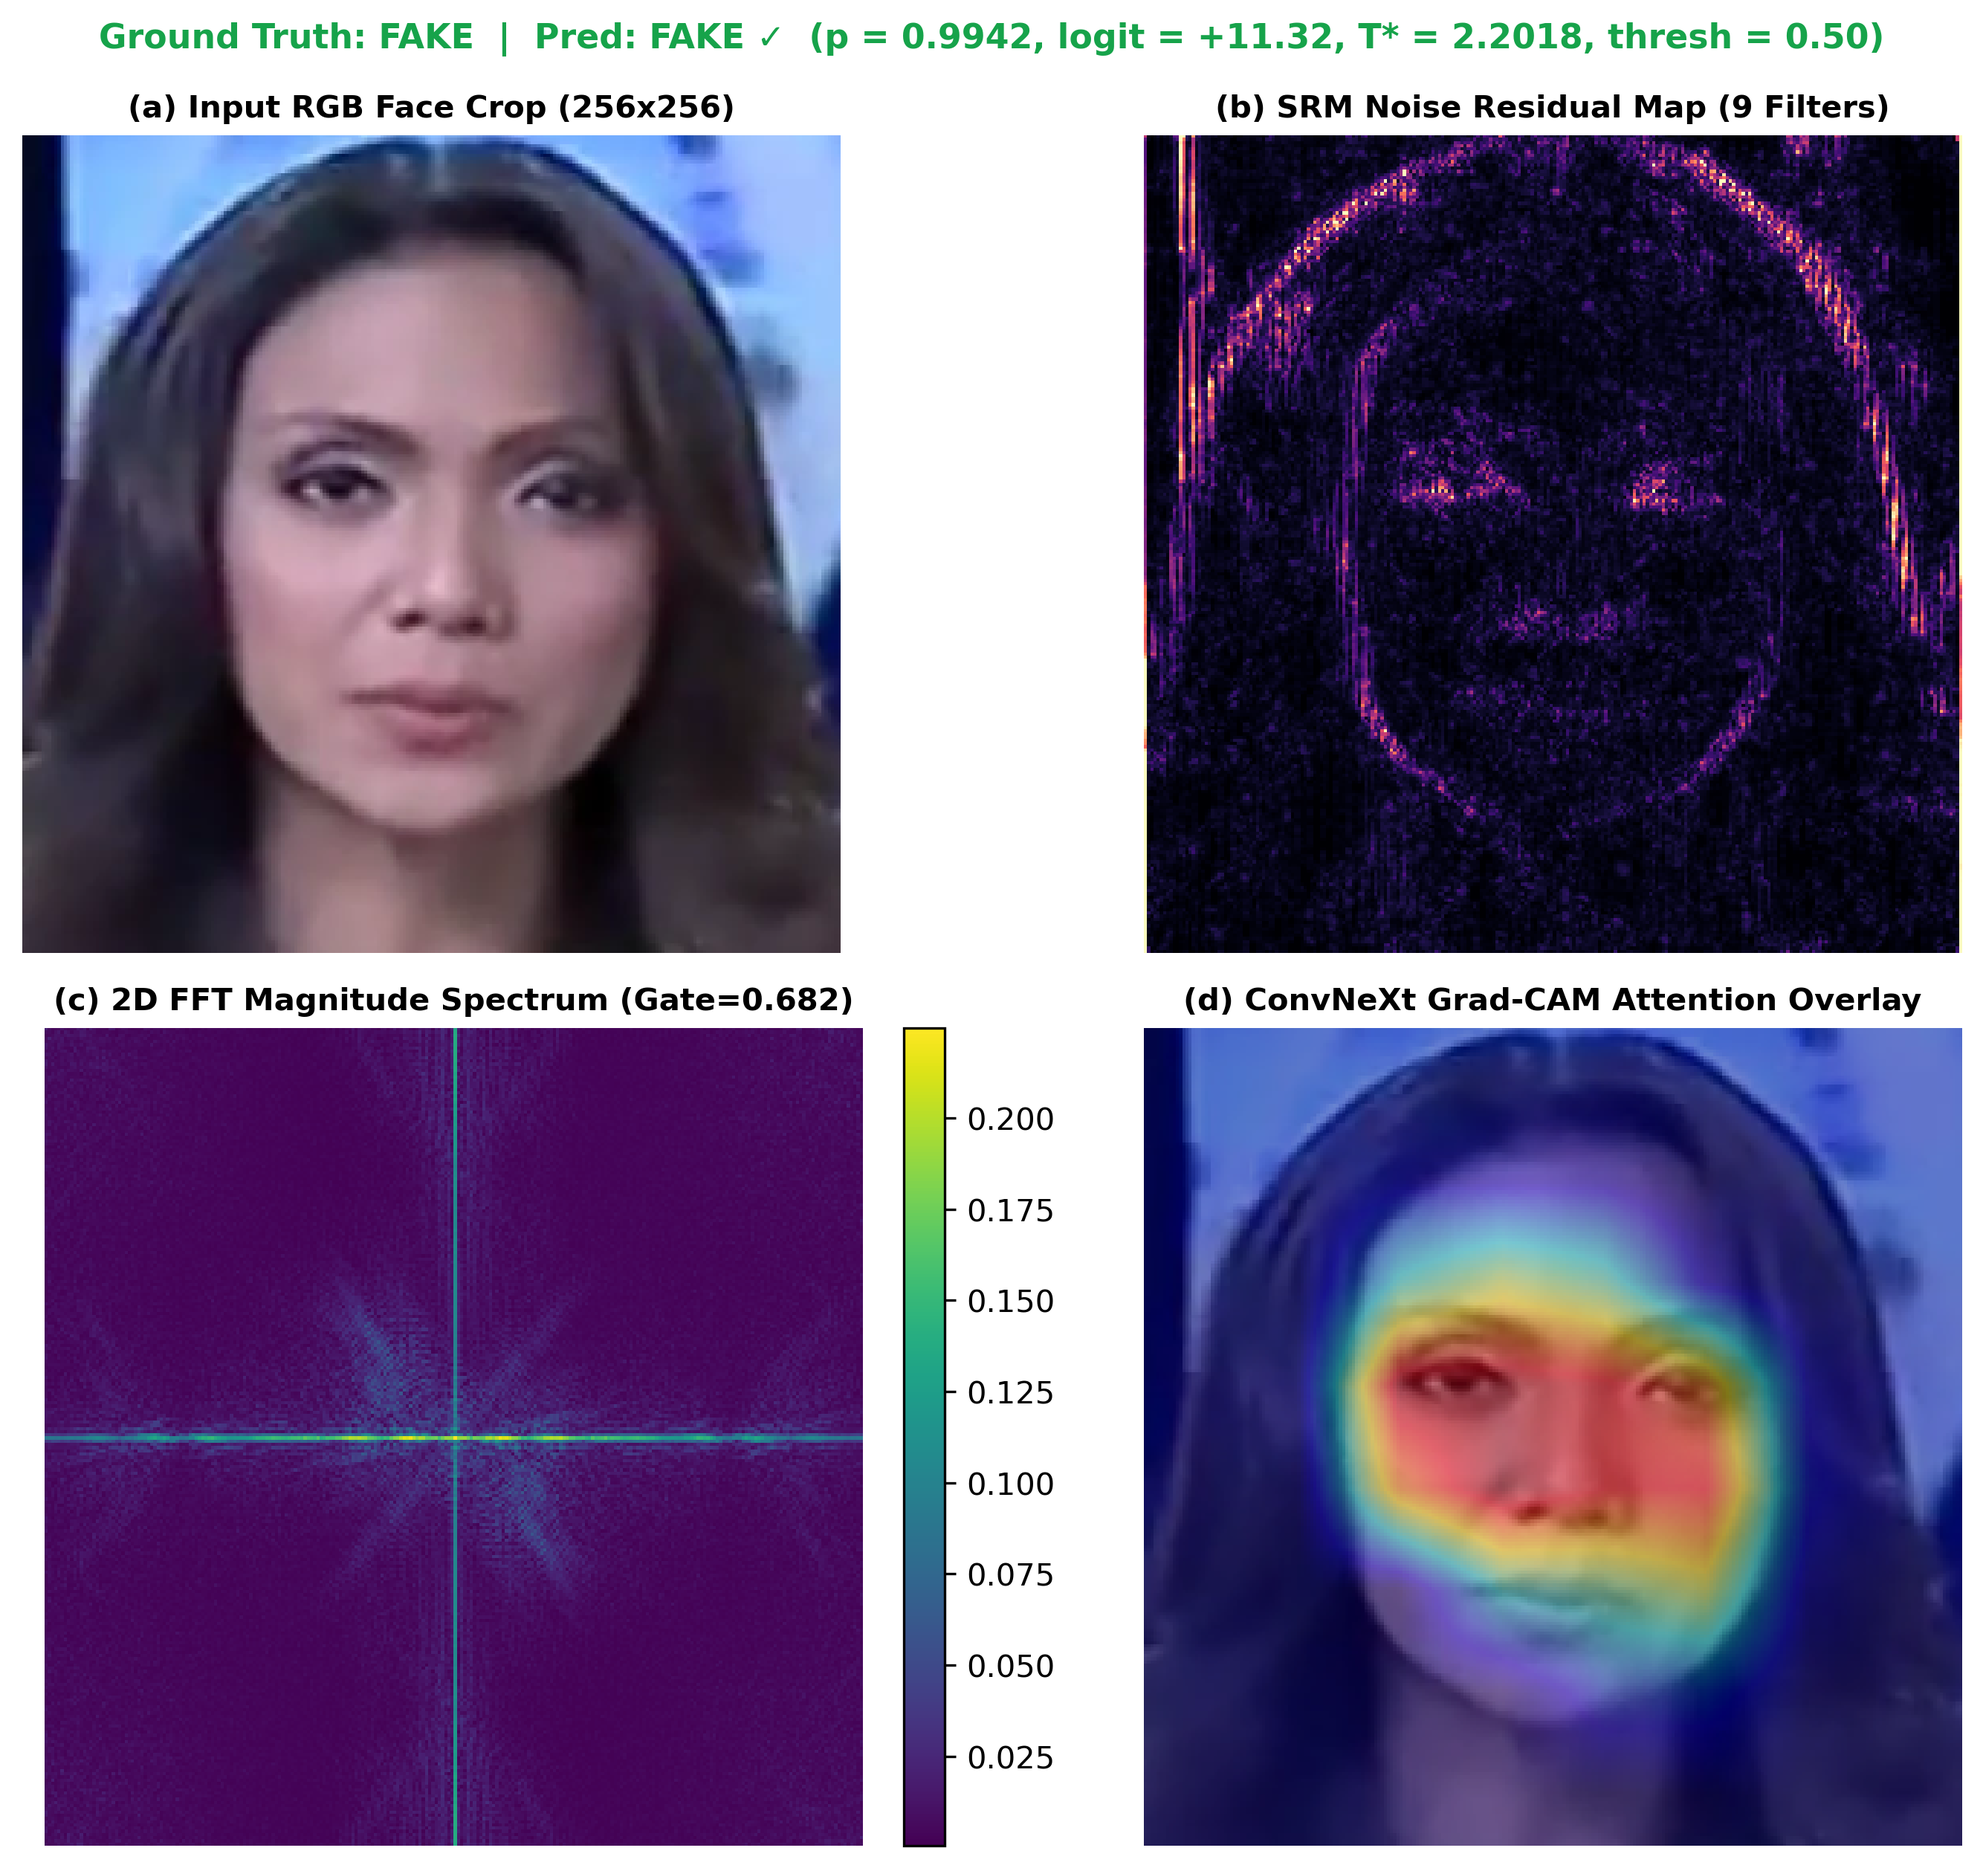
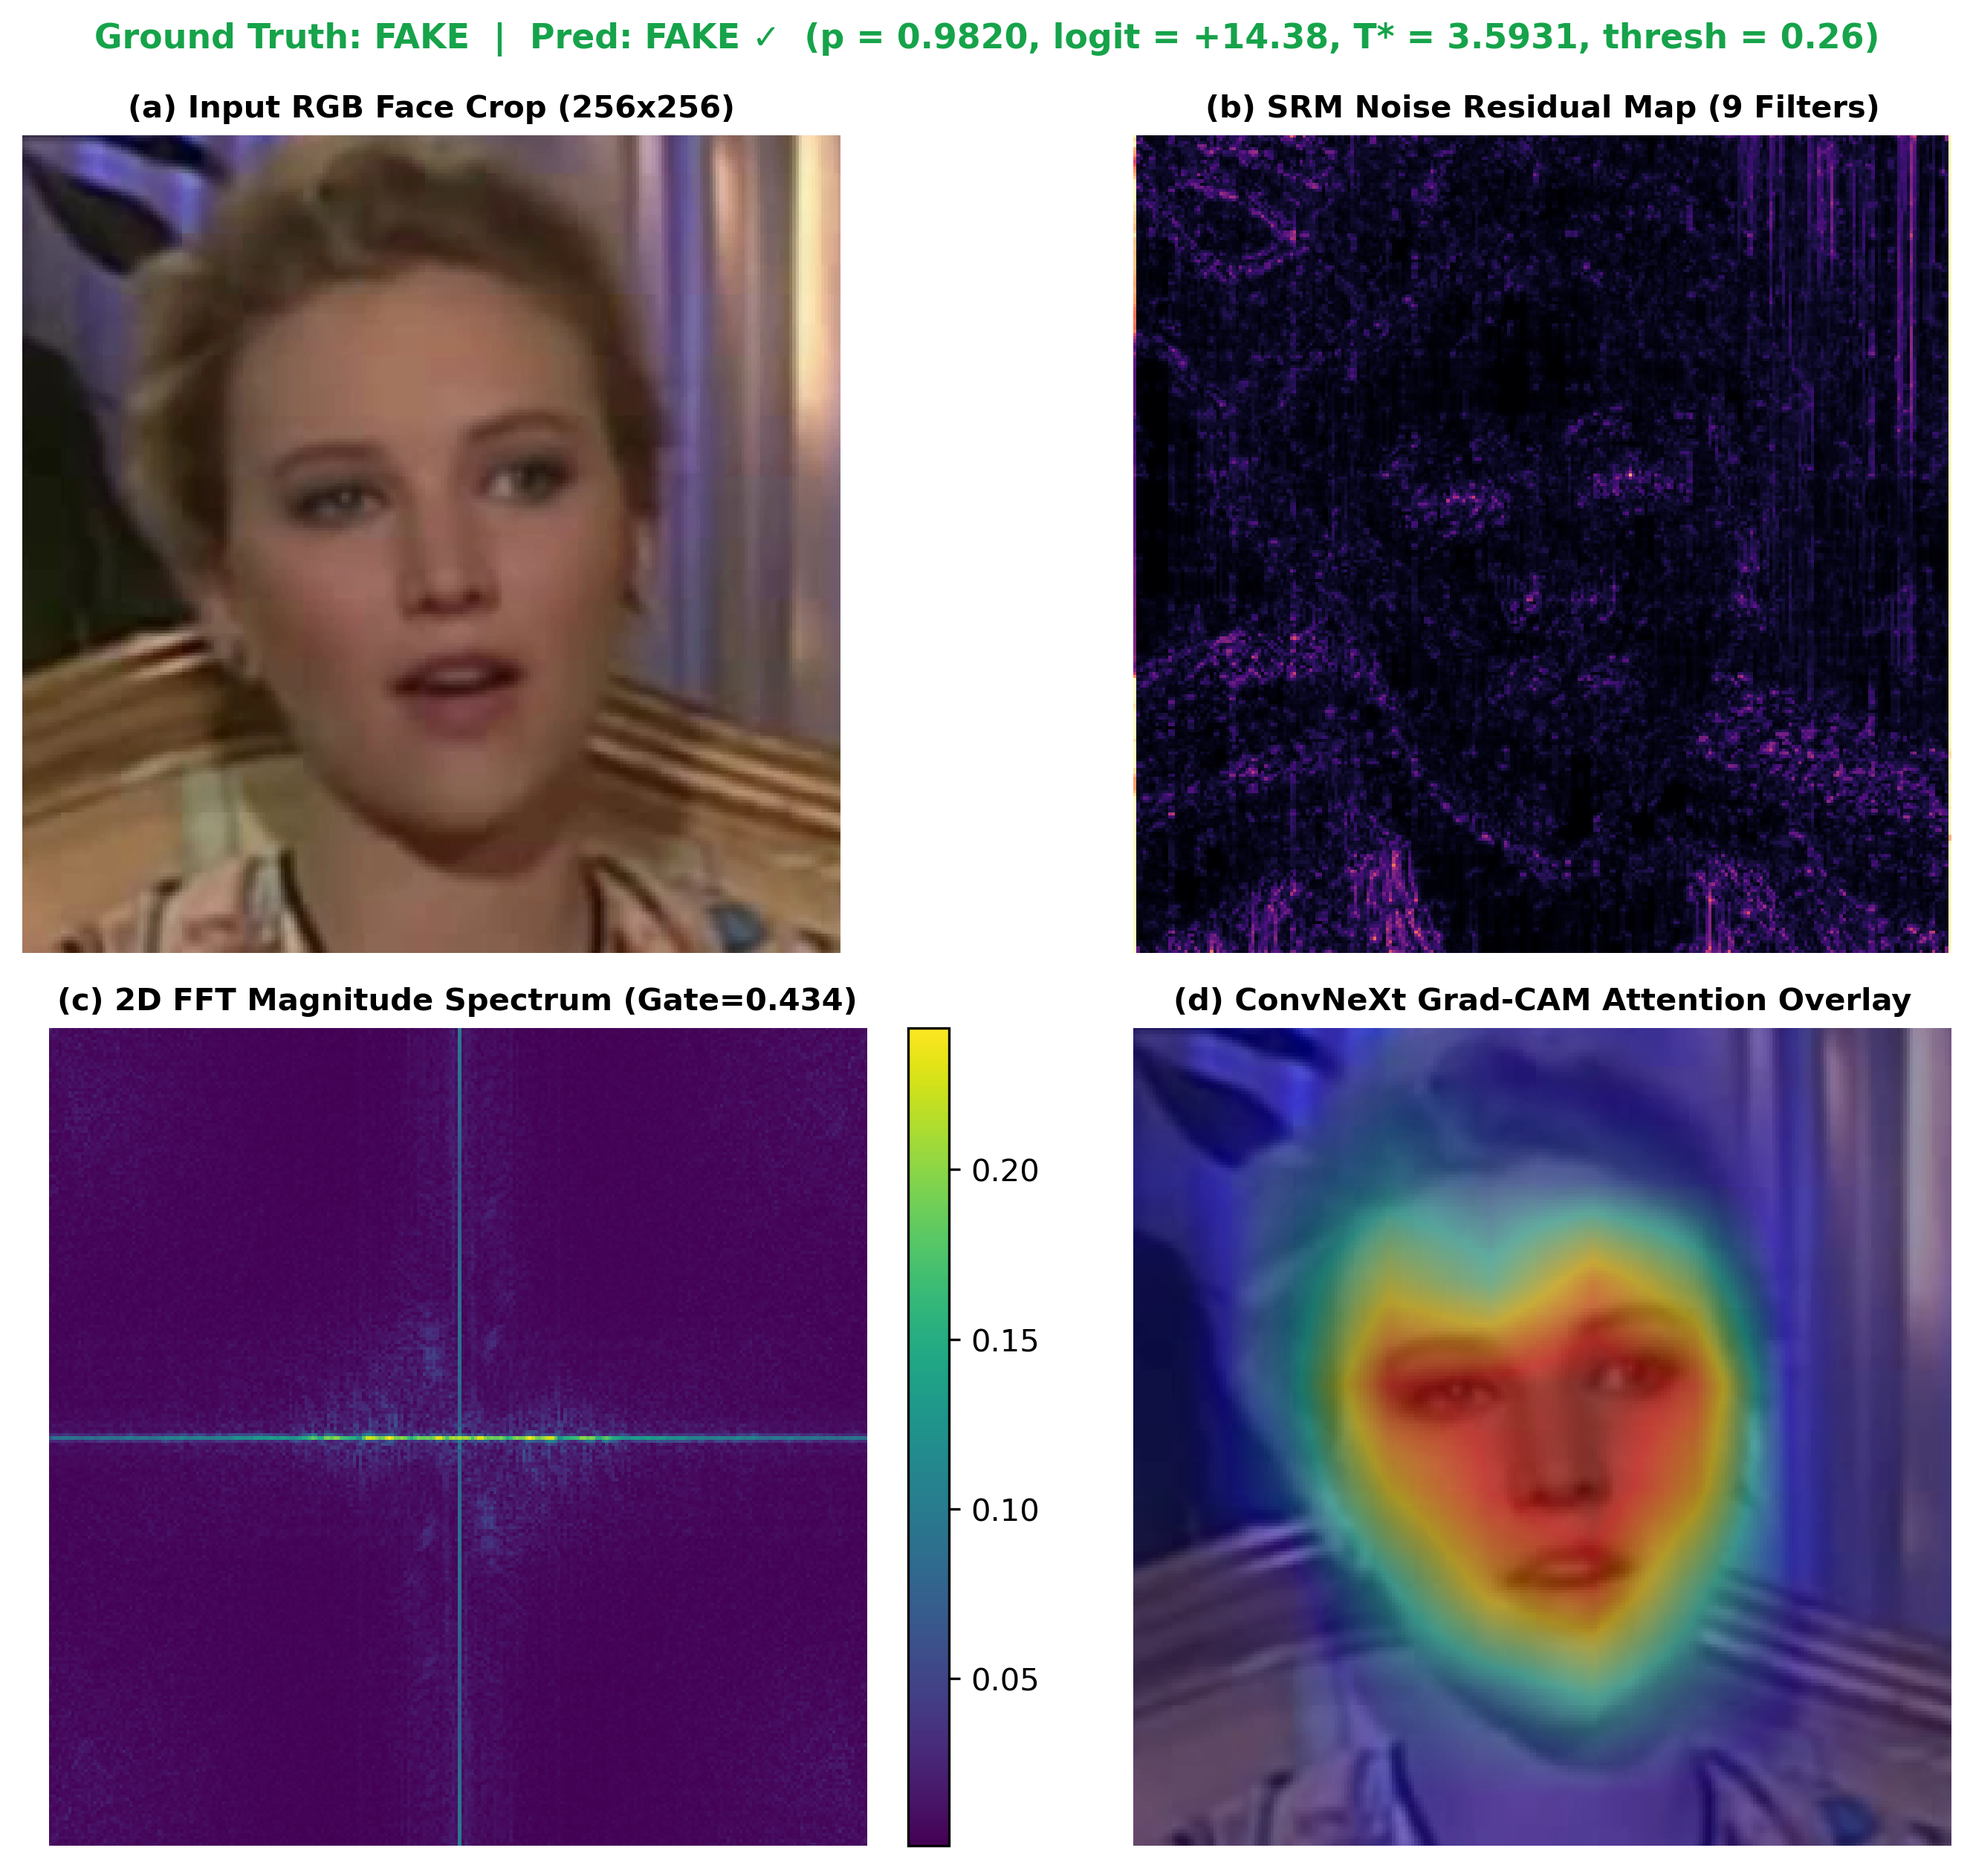
docs(diagnostics): update 4-panel interpretability candidate and harmonize calibrated metrics

diff --git a/scripts/visualize_attention_maps.py b/scripts/visualize_attention_maps.py
@@ -48,12 +48,43 @@ def generate_4panel_figure(
     img_tensor = img_tensor.to(device)
 
     with torch.no_grad():
+        mean = model.imagenet_mean.to(dtype=img_tensor.dtype, device=device)
+        std = model.imagenet_std.to(dtype=img_tensor.dtype, device=device)
+        x_spatial = (img_tensor - mean) / std
+
+        feat_maps = model.spatial_backbone(x_spatial)
+        feat_maps = model.spatial_norm(feat_maps)
+        f_s = model.spatial_pool(feat_maps).flatten(1)
+        f_s = model.spatial_fc(f_s)
+
+        srm_out = model.srm(img_tensor)
+        bayar_out = model.bayar(img_tensor)
+        noise_combined = torch.cat([srm_out, bayar_out], dim=1)
+        freq_maps = model.fft(noise_combined)
+        if hasattr(model, "freq_tower"):
+            f_f, _ = model.freq_tower(freq_maps)
+        else:
+            f_f = model.freq_conv(freq_maps).flatten(1)
+            f_f = model.freq_fc(f_f)
+
+        concat_feat = torch.cat([f_s, f_f], dim=1)
+        gate = model.gate_fc(concat_feat)
+        gate_raw = float(gate.mean().item())
+
         logits = model(img_tensor).squeeze(-1).float()
         raw_logit = float(logits.item())
         calibrated_prob = float(torch.sigmoid(logits / temperature).item())
         pred_label = "FAKE" if calibrated_prob > threshold else "REAL"
 
     diag = generate_face_diagnostics(model, rgb_uint8, device=device)
+
+    srm_map = srm_out[0].abs().mean(dim=0).cpu().numpy()
+    p_low = np.percentile(srm_map, 1.0)
+    p_high = np.percentile(srm_map, 99.5)
+    srm_norm = np.clip((srm_map - p_low) / max(float(p_high - p_low), 1e-6), 0.0, 1.0)
+
+    mag_maps = freq_maps[0, :10].cpu().numpy()
+    fft_centered = np.mean(mag_maps, axis=0)
 
     plt.rcParams.update({"font.family": "DejaVu Sans", "figure.facecolor": "white"})
     fig, axes = plt.subplots(2, 2, figsize=(10, 8.5), dpi=300)
@@ -62,13 +93,14 @@ def generate_4panel_figure(
     axes[0, 0].set_title("(a) Input RGB Face Crop (256x256)", fontsize=10, fontweight="bold")
     axes[0, 0].axis("off")
 
-    axes[0, 1].imshow(diag["srm_residual"])
+    axes[0, 1].imshow(srm_norm, cmap="magma")
     axes[0, 1].set_title("(b) SRM Noise Residual Map (9 Filters)", fontsize=10, fontweight="bold")
     axes[0, 1].axis("off")
 
-    axes[1, 0].imshow(diag["fft_spectrum"])
-    axes[1, 0].set_title("(c) 2D FFT Magnitude Spectrum", fontsize=10, fontweight="bold")
+    im_c = axes[1, 0].imshow(fft_centered, cmap="viridis")
+    axes[1, 0].set_title(f"(c) 2D FFT Magnitude Spectrum (Gate={gate_raw:.3f})", fontsize=10, fontweight="bold")
     axes[1, 0].axis("off")
+    fig.colorbar(im_c, ax=axes[1, 0], fraction=0.046, pad=0.04)
 
     axes[1, 1].imshow(diag["gradcam_overlay"])
     axes[1, 1].set_title("(d) ConvNeXt Grad-CAM Attention Overlay", fontsize=10, fontweight="bold")
@@ -103,6 +135,8 @@ def main() -> None:
     parser.add_argument("--output_dir", default="figures/attention_maps", help="Output directory for rendered figures")
     parser.add_argument("--n_samples", type=int, default=6, help="Number of sample diagnostic figures to generate")
     parser.add_argument("--image_path", type=str, default=None, help="Optional single image path for one-off visualization")
+    parser.add_argument("--label", type=str, default="UNKNOWN", help="Ground truth label for single image mode (REAL or FAKE)")
+    parser.add_argument("--output_filename", type=str, default=None, help="Custom filename for single image output")
     args = parser.parse_args()
 
     os.makedirs(args.output_dir, exist_ok=True)
@@ -130,9 +164,10 @@ def main() -> None:
         if rgb.shape[0] != IMG_SIZE or rgb.shape[1] != IMG_SIZE:
             rgb = cv2.resize(rgb, (IMG_SIZE, IMG_SIZE), interpolation=cv2.INTER_AREA)
 
-        out_name = os.path.join(args.output_dir, "single_image_attention.png")
+        out_fname = args.output_filename or "single_image_attention.png"
+        out_name = os.path.join(args.output_dir, out_fname)
         generate_4panel_figure(
-            model, rgb, "UNKNOWN", out_name, device, threshold, temperature
+            model, rgb, args.label, out_name, device, threshold, temperature
         )
         return
 

diff --git a/README.md b/README.md
@@ -39,7 +39,7 @@ Intermediate representations extracted across the spatial, residual steganograph
 | Authentic Face (Real) | Manipulated Face (Deepfake) |
 | :---: | :---: |
 | ![Authentic Diagnostics](figures/attention_maps/attention_map_05_real.png) | ![Deepfake Diagnostics](figures/attention_maps/attention_map_05_fake.png) |
-| *Continuous camera PRNU sensor noise, natural $1/f$ Fourier power decay, and diffuse, non-localized spatial activation.* | *Sensor noise suppression along blending boundaries, periodic lattice peaks in 2D FFT, and localized manipulation contours in Grad-CAM.* |
+| *Continuous camera PRNU sensor noise, natural $1/f$ Fourier power decay, and diffuse spatial activation ($p = 0.0399$, $z = -11.43$, Zone 1 Clearance).* | *Sensor noise suppression along blending boundaries, periodic Fourier harmonics, and localized manipulation contours in Grad-CAM ($p = 0.9820$, $z = +14.38$, Zone 3 Confirmed Synthetic).* |
 
 > [!NOTE]
 > **Forensic Diagnostic Breakdown:**
